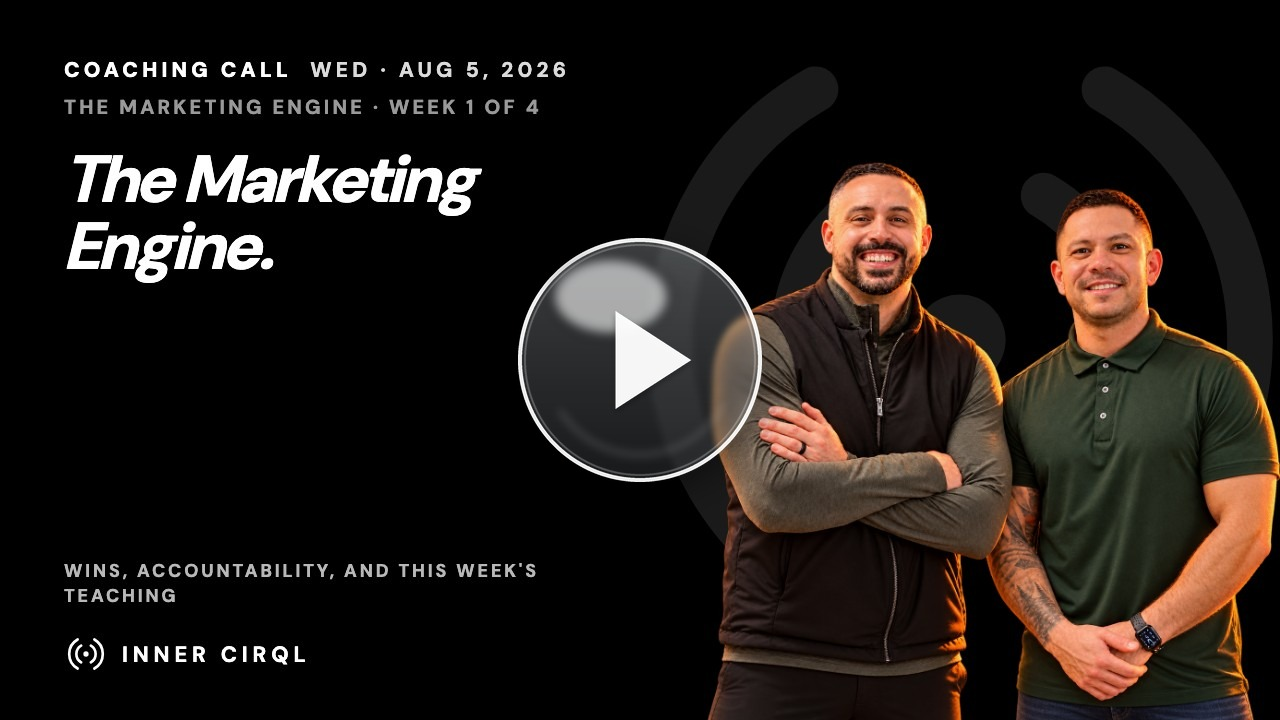
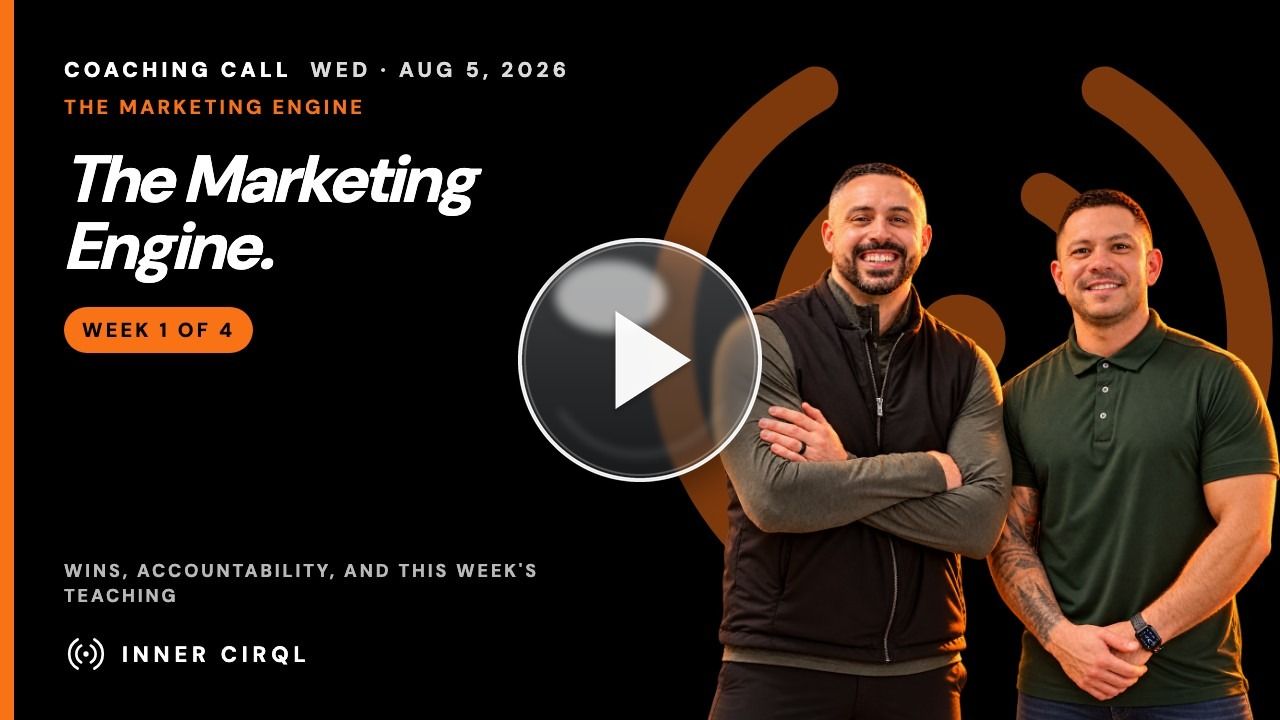
Training: retitle Aug 5 coaching call (The Marketing Engine · Week 1 · The Problem.) + thumbnail

diff --git a/training/index.html b/training/index.html
@@ -94,6 +94,26 @@ window.LIBRARY = {
   ],
   "items": [
     {
+      "id": "v-2026-08-05",
+      "date": "2026-08-05",
+      "dateLabel": "August 5, 2026",
+      "series": "engine",
+      "week": 1,
+      "name": "The Problem.",
+      "title": "The Marketing Engine · Week 1 · The Problem.",
+      "headline": [
+        "The Marketing",
+        "Engine."
+      ],
+      "sub": "The Marketing Engine · Week 1 of 4",
+      "desc": "The Marketing Engine, Week 1: The Problem: leads are downstream of authority. Build the engine once and it markets you every day. Wins, accountability, and the teaching segment, edited replay.",
+      "href": "https://coach.theinnercirql.com/2026-08-05/",
+      "pdf": null,
+      "slides": null,
+      "embed": "https://www.youtube.com/embed/PxzcgP3n0Ao?rel=0&modestbranding=1",
+      "thumb": "/assets/thumbs/aug-5-call.jpg?v=29920183"
+    },
+    {
       "id": "v-2026-07-29",
       "date": "2026-07-29",
       "dateLabel": "July 29, 2026",
@@ -532,26 +552,6 @@ window.LIBRARY = {
       "slides": null,
       "embed": "https://www.youtube.com/embed/EGGsCkQDVTc?rel=0&modestbranding=1",
       "thumb": "/assets/thumbs/aug-12-call.jpg?v=29920167"
-    },
-    {
-      "id": "v-2026-08-05",
-      "date": "2026-08-05",
-      "dateLabel": "August 5, 2026",
-      "series": "engine",
-      "week": 1,
-      "name": "The Problem.",
-      "title": "The Marketing Engine · Week 1 · The Problem.",
-      "headline": [
-        "The Marketing",
-        "Engine."
-      ],
-      "sub": "The Marketing Engine · Week 1 of 4",
-      "desc": "The Marketing Engine, Week 1: The Problem: leads are downstream of authority. Build the engine once and it markets you every day. Wins, accountability, and the teaching segment, edited replay.",
-      "href": "https://coach.theinnercirql.com/2026-08-05/",
-      "pdf": null,
-      "slides": null,
-      "embed": "https://www.youtube.com/embed/PxzcgP3n0Ao?rel=0&modestbranding=1",
-      "thumb": "/assets/thumbs/aug-5-call.jpg?v=29920166"
     },
     {
       "id": "t-become-a-listing-magnet",
